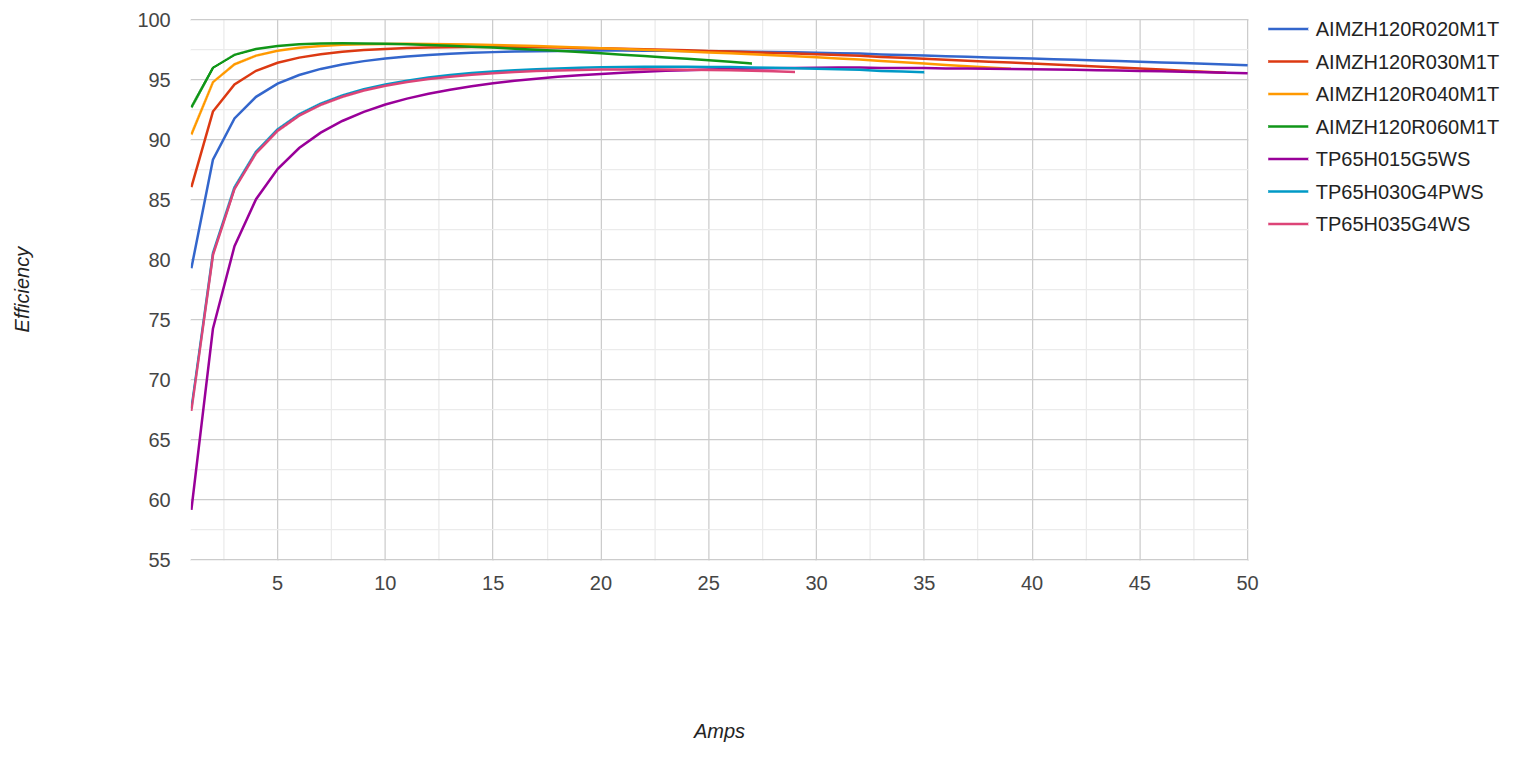
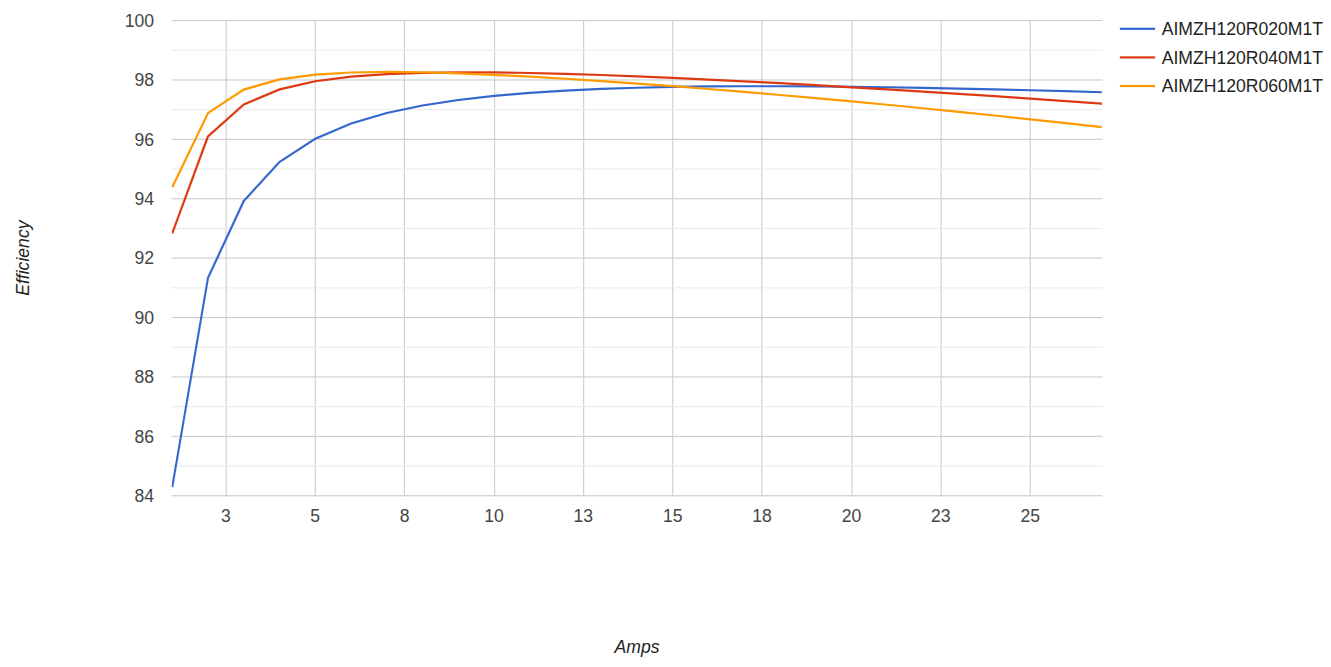
Added MOSFET cooling section, updated MOSFET comparison graphs.

diff --git a/README.md b/README.md
@@ -8,6 +8,11 @@ that it can power the inverter without a transformer, even at minimum state-of-c
 High current means that the inverter design is capable of implementing at least 100-amp and 200-amp inverters,
 and possibly even 300-amp or 400-amp inverters.
 
+This document is a companion for the inverter design tool described in the repository
+[inverter_design_tool](https://github.com/icosalogic/inverter_design_tool).
+The design tool is more technical, while this manual gives some rationale for how to solve different
+aspects of inverter design.
+
 # North American Residential Inverter Market
 
 This design is primarily targeted to the North American inverter market, which mostly uses a nominal 120V 60 Hz standard.
@@ -242,9 +247,47 @@ The following graph shows the estimated efficiency of different FETs in an inver
 | C<sub>out</sub>       | 16 uF    |
 | L<sub>2</sub>         | 18 uH    |
 
-![FET comparison 1](media/FET_comp1.png)
+![FET efficiency comparison](media/FET_comp1.png)
 
-While the smaller FETs are more efficient, the actual power saved is relatively low.
+To switch entirely from a single larger FET to multiple smaller FETs would also add complexity to the
+switching logic.
+Motivation in favor of using smaller FETs is that inverters spend a majority of their time running
+at relatively low power levels.
+See the section [Considerations for Optimization](#Considerations-for-Optimization) below.
+
+While the smaller FETs are more efficient, the actual power saved is relatively low, as shown in
+this graph.
+It shows the power loss for 3 configurations which are identical except for the MOSFETs.
+
+![FET power loss comparison](media/FET_comp2.png)
+
+This graph shows that a good strategy is to use a smaller MOSFET when the inverter is running at light load,
+then switch to a bigger MOSFET when the load increases.
+
+## Cooling MOSFETs
+
+More than any other component in the inverter, the MOSFETs are constrained by how efficiently they are cooled.
+The heat in a MOSFET is essentially generated in a component call the junction.
+The path to dissipate that heat from the junction to the environment has multiple steps, and each
+step has a certain thermal resistance.
+The process to solve a thermal resistance problem is essentially the same as solving an electrical resistance problem.
+The steps in a typical MOSFET thermal solution are:
+
+- Resistance from the MOSFET junction to case, R<sub>θ_jc</sub>.
+- Resistance from the case to heat sink, R<sub>θ_cs</sub>.
+- Resistance from the heat sink to ambient air, R<sub>θ_sa</sub>.
+
+These resistances are usually given in units of °C/W.
+Typical MOSFET-sized heat sinks rarely have a R<sub>θ_sa</sub> less than 3.
+For maximum realization of a MOSFET's potential, higher efficiency cooling is required.
+This can be obtained with a cool plate or jet impingement cooling.
+
+One very interesting idea would be to immerse the entire inverter in a non-conductive oil, and cool
+the MOSFETs with jet impingement.
+The cooling oil in turn could be cycled through a heat exchanger in a hot water tank in front of
+the residential hot water heater.
+In such a system, the overhead of a couple small pumps could enable the collection of the majority
+of power loss heat from the inverter, pushing the efficiency well over 99%.
 
 # Output Filter
 
@@ -290,10 +333,6 @@ maximum capacity of approximately 12 kW.
 The largest off-the-shelf, commercially-available inductor cores will handle approximately 50 amps,
 which is 6 kW for a single line inverter, or 12 kW for a 2-line split-phase inverter.
 To scale up the same design to double- or quadruple the size would require an inductor 4 to 16 times the size.
-
-# Cooling
-
-TBD
 
 # Considerations for Optimization
 
